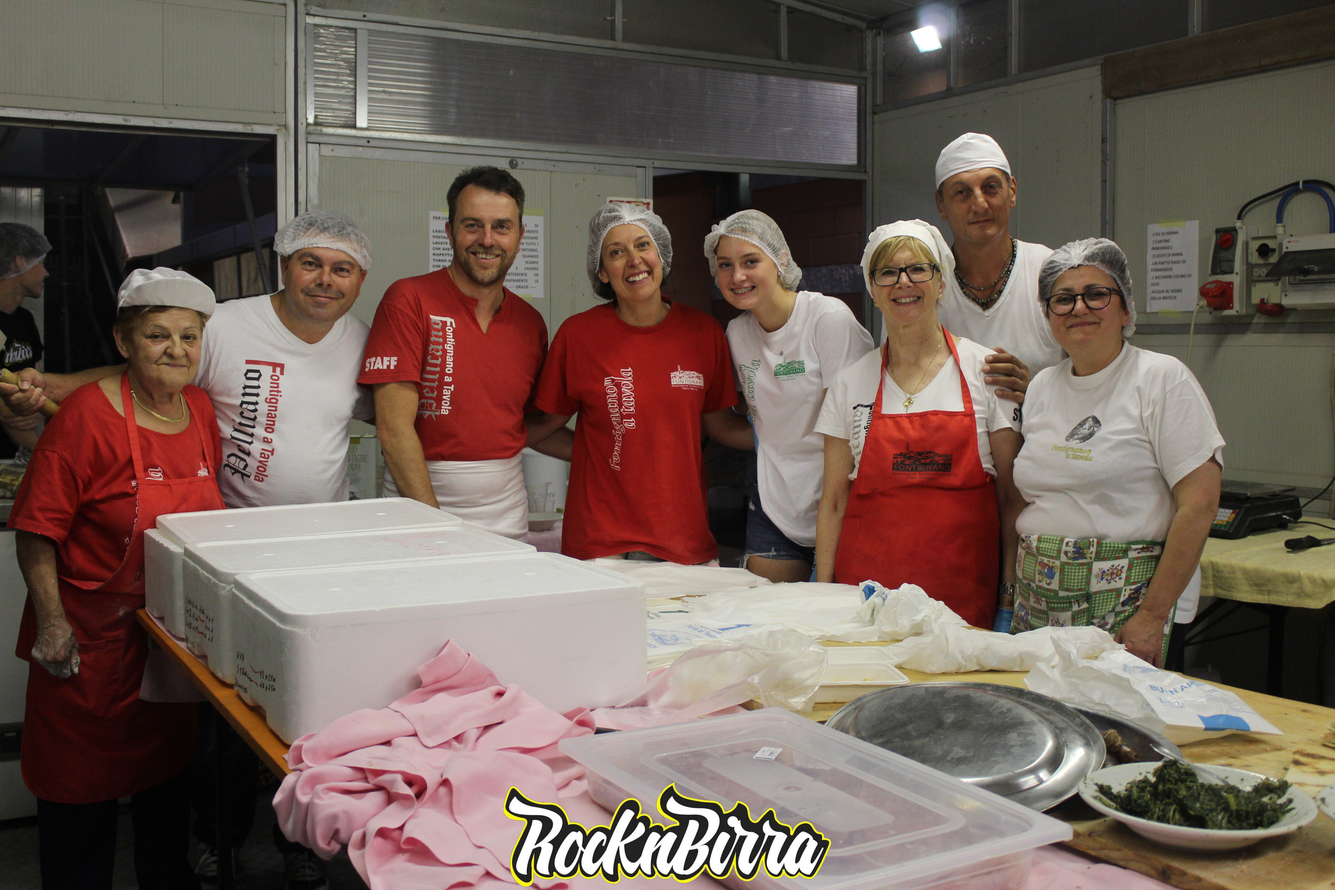
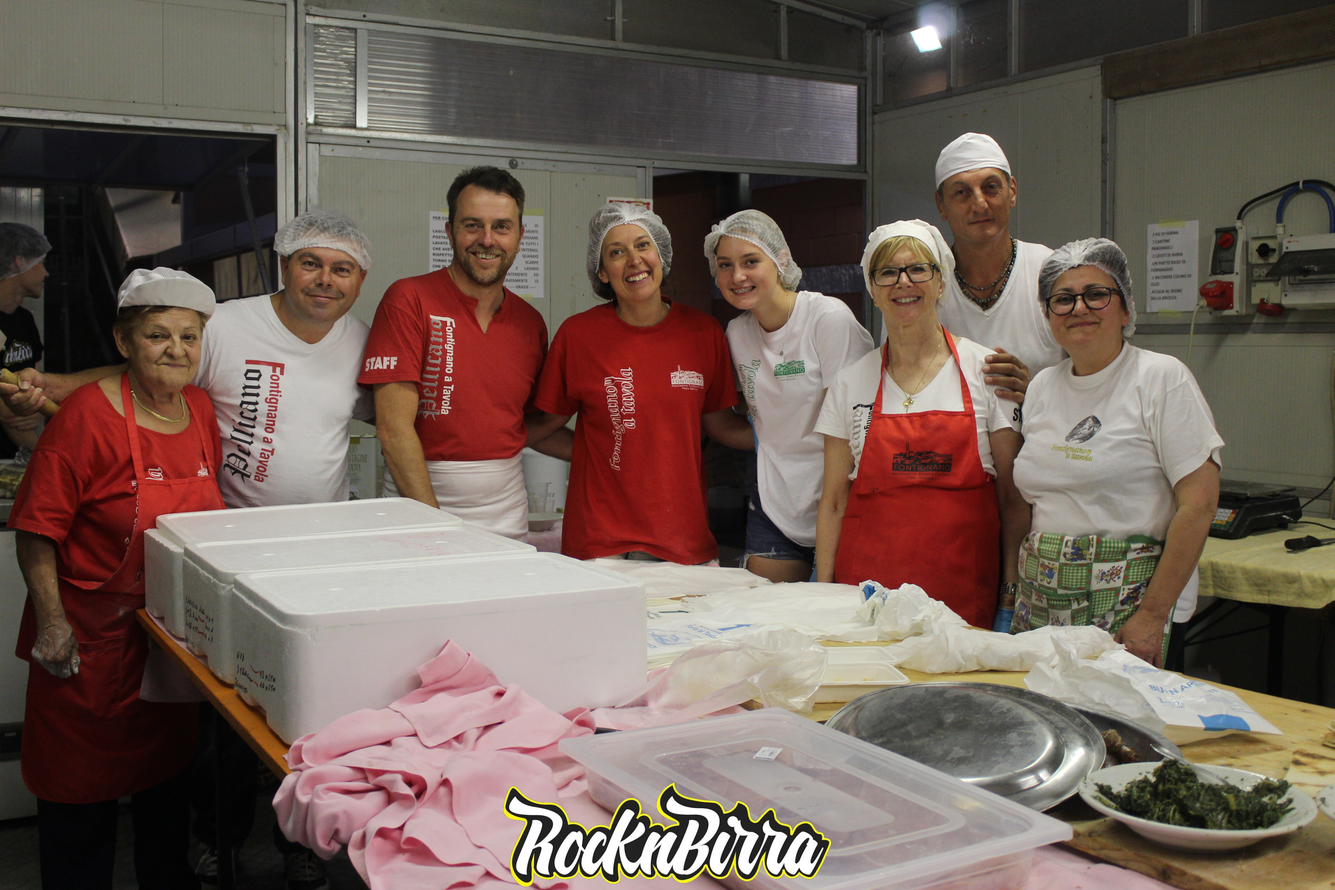
modified-images

Changed region(s): [[0.75, 0.5625, 0.9062, 0.7188], [0.8438, 0.4688, 0.875, 0.5312], [0.9062, 0.5, 0.9375, 0.5312]]

diff --git a/images/26-07-23/thumbs/IMG_2434.JPG.html b/images/26-07-23/thumbs/IMG_2434.JPG.html
@@ -69,7 +69,7 @@ p {
 </div>
 <div class="row">
 	<div class="col">
-		<p><a class="btn btn-primary" href="../IMG_2434.JPG" download="">Download Original (3.67MB)</a></p>
+		<p><a class="btn btn-primary" href="../IMG_2434.JPG" download="">Download Original (3.65MB)</a></p>
 	</div>
 </div>
 </main> <!-- // main container -->
